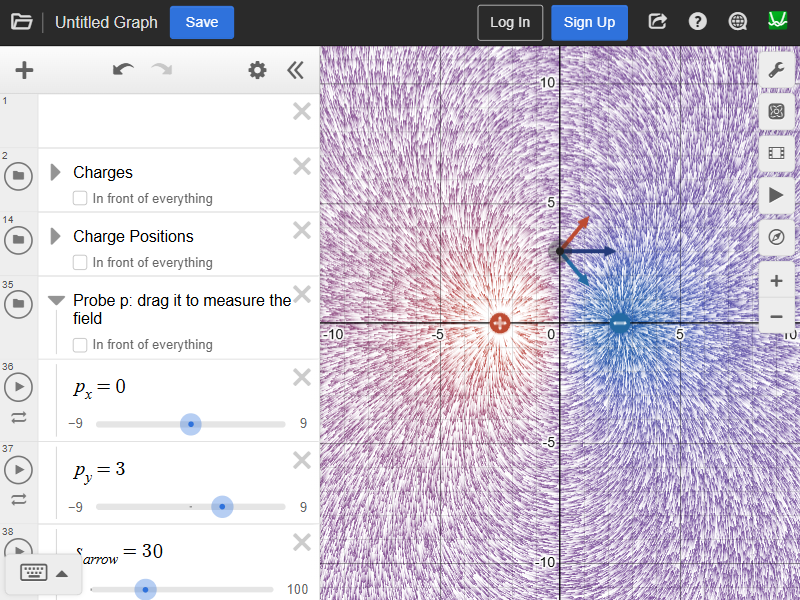
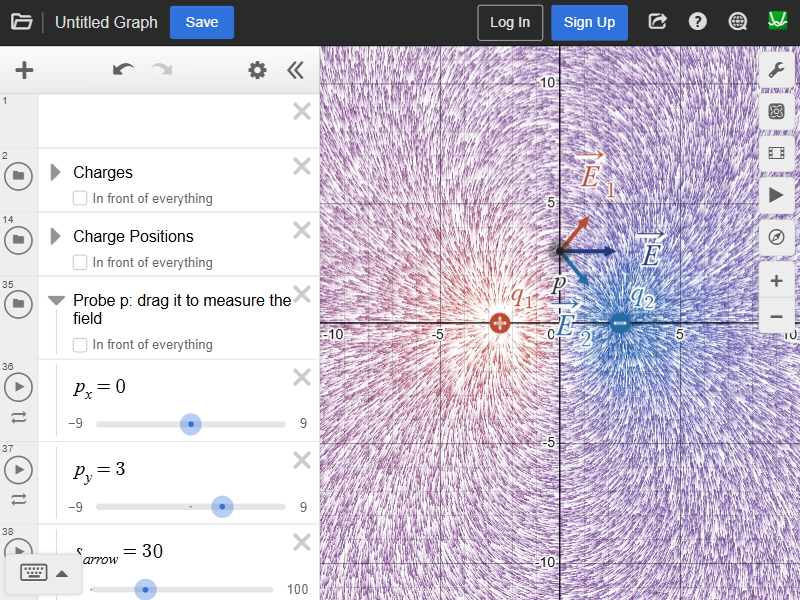
Name every charge, the probe and the arrows from the start
Rafael asked for everything drawn to have a name. The arrows had names
behind a Names switch that started off, and the charges and the probe had
none. The switch now starts on, the probe is labelled p, and each charge
in use is labelled q1, q2, ... in its sign's colour, just off its disc.

In the plane the name is a point of its own, of size 0, as the arrows'
names are: a label on the drag handle was not drawn, its opacity being
worked out (measured 2026-11-09). On Desmos 3D, which draws no labels,
each charge and the probe get a hidden name point the plugin labels, as
the arrows already did. An unused charge's name goes with the charge.

The presets window lists the names as "Charge names", so they can be
hidden there like any other part. Labels can also be placed now
(labelOrientation), which the expression writer passes to Desmos.

diff --git a/src/plugins/vector-tools/vector-tools.int.test.ts b/src/plugins/vector-tools/vector-tools.int.test.ts
@@ -2277,12 +2277,13 @@ testWithPage(
           document.querySelectorAll(".dsm-preset-window-position-link").length
       )
     ).toBe(3);
-    // The switches are checkboxes, not sliders.
+    // The switches are checkboxes, not sliders: one more since the charges
+    // are named (2026-11-09), so their names can be hidden.
     expect(
       await driver.evaluate(
         () => document.querySelectorAll(".dsm-preset-window-switch").length
       )
-    ).toBe(11);
+    ).toBe(12);
 
     // Set from the window; reset to the preset's own.
     await driver.evaluate(() =>
@@ -2400,6 +2401,45 @@ testWithPage(
       "Y_{q2}",
     ]);
     expect(positions).toHaveLength(20);
+    // Everything drawn is named from the start: each charge, the probe,
+    // and the arrows, whose Names switch is on (2026-11-09).
+    const labels = await driver.evaluate(() =>
+      Calc.getState()
+        .expressions.list.filter(
+          (e) => (e as { showLabel?: boolean }).showLabel === true
+        )
+        .map((e) => (e as { label: string }).label)
+    );
+    expect(labels).toEqual(
+      expect.arrayContaining([
+        "`q_{1}`",
+        "`q_{10}`",
+        "`p`",
+        "`\\vec{E}`",
+        "`\\vec{F}`",
+      ])
+    );
+    expect(
+      await driver.evaluate(
+        () =>
+          (
+            Calc.getState().expressions.list.find(
+              (e) => e.id === "vector_tools_variables_snames"
+            ) as { latex: string }
+          ).latex
+      )
+    ).toBe("s_{names}=1");
+    const nameErrors = await driver.evaluate(() =>
+      Calc.controller
+        .getAllItemModels()
+        .filter(
+          (m) =>
+            m.id.startsWith("vector_tools_variables_") &&
+            (m as { error?: unknown }).error !== undefined
+        )
+        .map((m) => m.id)
+    );
+    expect(nameErrors).toEqual([]);
     // Every hidden helper and every switch is out of the way, and the
     // charges' folder is its sliders alone: what a student sets.
     const misplaced = await driver.evaluate(() =>

diff --git a/src/field-rendering/gallery/physics.ts b/src/field-rendering/gallery/physics.ts
@@ -154,7 +154,9 @@ const probeSwitches = (gain: number, max: number): GalleryVariable[] => [
   { ...toggle("s_{net}", 1, "Field arrow"), group: "helpers" },
   { ...toggle("s_{parts}", 0, "Each charge's arrow"), group: "helpers" },
   { ...toggle("s_{force}", 0, "Force on a test charge"), group: "helpers" },
-  { ...toggle("s_{names}", 0, "Names"), group: "probe" },
+  // On from the start: everything drawn says what it is (Rafael,
+  // 2026-11-09).
+  { ...toggle("s_{names}", 1, "Names"), group: "probe" },
   { ...toggle("s_{damp}", 1, "Damped lengths"), group: "probe" },
 ];
 
@@ -198,7 +200,7 @@ function chargeGroup(item: SceneItem): SceneItem {
   const k = item.key;
   const group =
     // The charges as drawn: dragged on the graph, never set in the list.
-    /^(ball|minus|plus|handle)\d+$/.test(k)
+    /^(ball|minus|plus|handle|name)\d+$/.test(k)
       ? "helpers"
       : k === "probe"
         ? "probe"
@@ -266,6 +268,9 @@ const CHARGES_SCENE_2D: SceneItem[] = (() => {
       color: "#222222",
       points: true,
       pointSize: 12,
+      label: "`p`",
+      labelSize: 1.3,
+      labelOrientation: "below",
     },
     ...arrows,
   ];
@@ -292,6 +297,13 @@ const CHARGES_SCENE_3D: SceneItem[] = (() => {
       // In 3D a point is a ball, and 12 hid the arrows' tails inside it.
       pointSize: 4,
       drag3d: ["p_{x}", "p_{y}", "p_{z}"],
+    },
+    {
+      // Desmos 3D draws no labels: the plugin names the probe itself.
+      key: "probeName",
+      latex: R`N_{pvt}=\left(p_{x},p_{y},p_{z}-0.35\right)`,
+      hidden: true,
+      name3d: { label: "p", color: "#222222" },
     },
     ...arrows,
   ];

diff --git a/src/plugins/vector-tools/vector3d.int.test.ts b/src/plugins/vector-tools/vector3d.int.test.ts
@@ -686,3 +686,46 @@ testWithPageAndOpts(
     await driver.setBlank();
   }
 );
+
+testWithPageAndOpts(
+  "the charges in the box are named, as Desmos 3D will not",
+  { path: "/3d", timeout: 120000 },
+  async (driver) => {
+    await driver.enablePlugin("vector-tools");
+    await driver.page.evaluate(() =>
+      (DSM.enabledPlugins["vector-tools"] as any).applyGalleryPreset(
+        "charges",
+        true
+      )
+    );
+    await driver.waitForSync();
+    await new Promise((resolve) => setTimeout(resolve, 1500));
+    // Each charge in use has a name point just over its ball, and the
+    // probe has one; none of them, or of the preset's rows, errs.
+    const state = await driver.page.evaluate(() => ({
+      errors: Calc.controller
+        .getAllItemModels()
+        .filter(
+          (m) =>
+            m.id.startsWith("vector_tools_variables_") &&
+            (m as { error?: unknown }).error !== undefined
+        )
+        .map((m) => m.id),
+      names: Calc.getState()
+        .expressions.list.filter((e) =>
+          ((e as { latex?: string }).latex ?? "").startsWith("N_{")
+        )
+        .map((e) => (e as { latex: string }).latex.split("=")[0]),
+    }));
+    expect(state.errors).toEqual([]);
+    expect(state.names).toEqual(
+      expect.arrayContaining(["N_{q1vt}", "N_{q10vt}", "N_{pvt}"])
+    );
+    await driver.page.screenshot({
+      path: join(ASSETS, "plugin-charge-names.png"),
+    });
+    await driver.disablePlugin("vector-tools");
+    await driver.setBlank();
+    await driver.waitForSync();
+  }
+);

diff --git a/src/field-rendering/gallery/point-charges.ts b/src/field-rendering/gallery/point-charges.ts
@@ -289,6 +289,21 @@ export function chargeScene(
           pointOpacity: R`\left\{${active(i)}:0.35,0\right\}`,
           colorLatex: colorName(i),
           explains: options.handlesExplain ?? false,
+        },
+        {
+          // Its name, just off its disc, so every charge drawn says which
+          // it is (Rafael, 2026-11-09). A point of its own, of size 0 as
+          // the arrows' names are: Desmos drew no label on the handle,
+          // whose opacity is worked out (measured 2026-11-09).
+          key: `name${i}`,
+          latex: R`\left(${X}+0.7\cdot${radius},${Y}+0.7\cdot${radius}\right)${on}`,
+          points: true,
+          lines: false,
+          pointSize: 0,
+          colorLatex: colorName(i),
+          label: `\`${chargeName(i)}\``,
+          labelSize: 1.3,
+          labelOrientation: "above_right",
         }
       );
     } else {
@@ -309,6 +324,14 @@ export function chargeScene(
           explains: options.handlesExplain ?? false,
           drag3d: [X, Y, Z],
           drag3dWhen: { name: COUNT, atLeast: i },
+        },
+        {
+          // Desmos 3D draws no labels: the plugin names the charge at this
+          // point, just over its ball, undefined while it is unused.
+          key: `name${i}`,
+          latex: R`N_{q${i}vt}=\left(${X},${Y},${Z}+2\cdot${radius}\right)${on}`,
+          hidden: true,
+          name3d: { label: chargeName(i), color: "#333333" },
         }
       );
     }

diff --git a/src/field-rendering/gallery/types.ts b/src/field-rendering/gallery/types.ts
@@ -117,6 +117,8 @@ export interface SceneItem {
   /** A label at the point, Desmos LaTeX between backticks for maths. */
   label?: string;
   labelSize?: number;
+  /** Where the label sits from its point; Desmos's own placement if absent. */
+  labelOrientation?: "above" | "above_right" | "right" | "below";
   /** The range of t, for a curve in t. */
   domain?: readonly [string, string];
   /** The ranges of u and v, for a surface in u and v on Desmos 3D. */

diff --git a/src/plugins/vector-tools/index.ts b/src/plugins/vector-tools/index.ts
@@ -311,6 +311,7 @@ function sceneItemSpec(
     showLabel: item.label !== undefined ? true : undefined,
     label: item.label,
     labelSize: n(item.labelSize),
+    labelOrientation: item.labelOrientation,
     parametricDomain: range(item.domain),
     parametricDomain3Du: range(item.domainU),
     parametricDomain3Dv: range(item.domainV),

diff --git a/src/field-rendering/gallery/parts.ts b/src/field-rendering/gallery/parts.ts
@@ -39,6 +39,8 @@ const NAMES: Readonly<Record<string, string>> = {
   equipotentials: "Equipotentials",
   equi: "Equipotentials",
   probe: "Probe",
+  probeName: "Probe",
+  name: "Charge names",
   planet: "Planets",
   land: "Planets",
   ice: "Planets",

diff --git a/src/plugins/vector-tools/desmos/ExpressionAdapter.ts b/src/plugins/vector-tools/desmos/ExpressionAdapter.ts
@@ -44,6 +44,7 @@ export interface GeneratedExpressionSpec {
     | "showLabel"
     | "label"
     | "labelSize"
+    | "labelOrientation"
     | "parametricDomain"
     | "parametricDomain3Du"
     | "parametricDomain3Dv"
